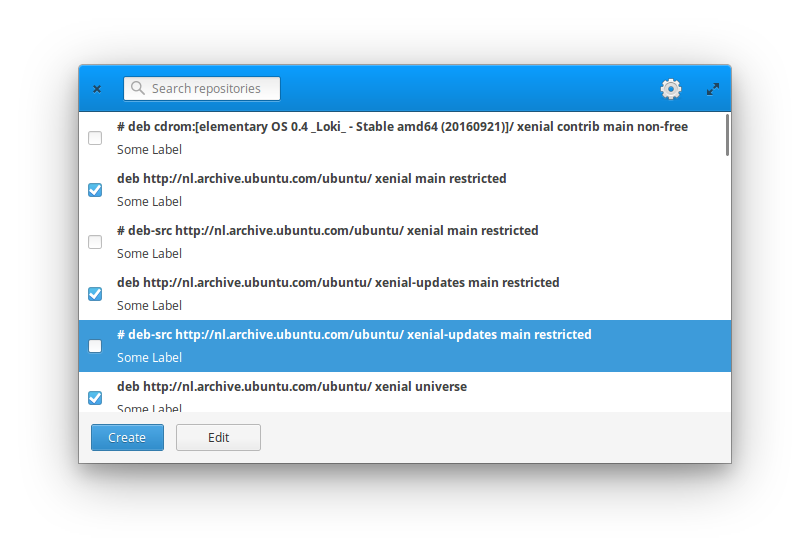
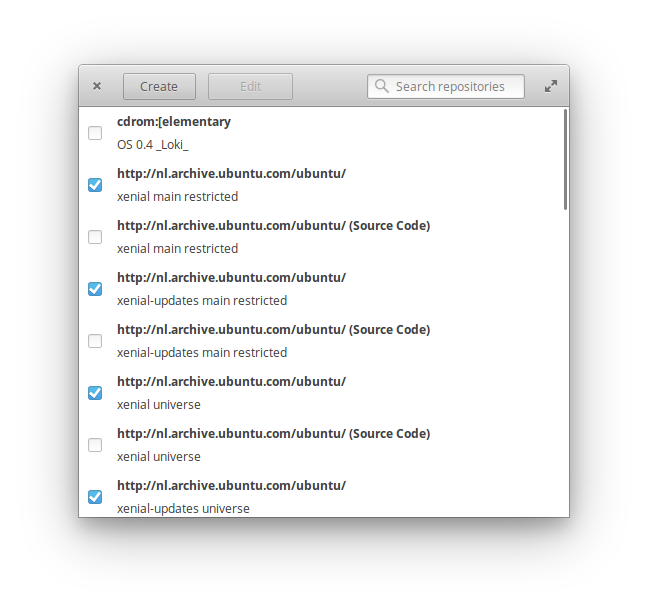
Updated screenshot and readme

Changed region(s): [[0.0617, 0.0917, 0.9259, 0.8561]]

diff --git a/README.md b/README.md
@@ -1,11 +1,11 @@
 # Repositories
-Manager for your ssh configs
+Manager for your apt repositories
 
 ![Screenshot](https://raw.githubusercontent.com/bartzaalberg/repositories-manager/master/screenshot.png)
 
 ### Simple App for elementary OS
 
-A Vala application to get your ssh bookmarks from your config file and use them in an interface kinda way
+A Vala application to manage your repositories in an interface
 
 ## Installation
 
